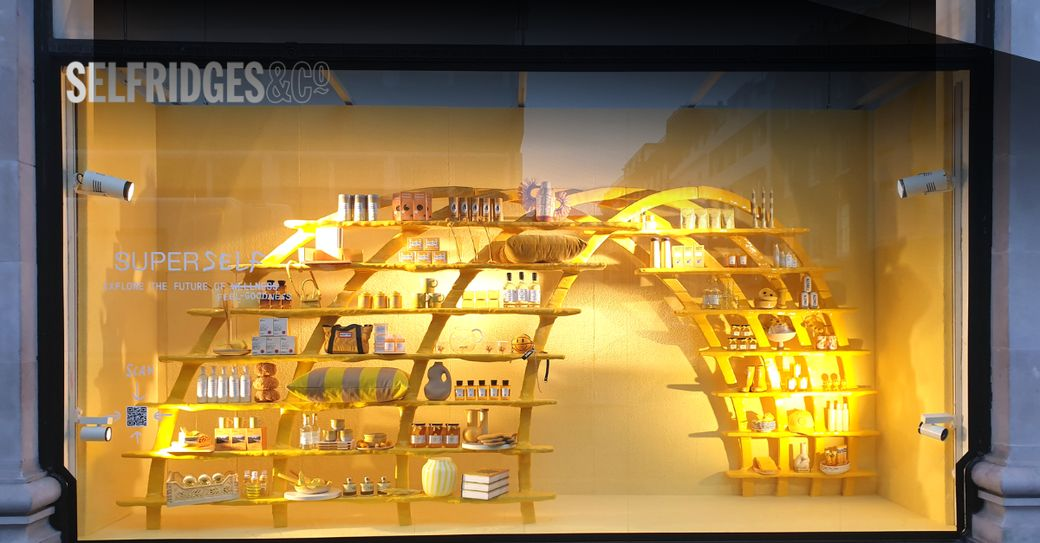
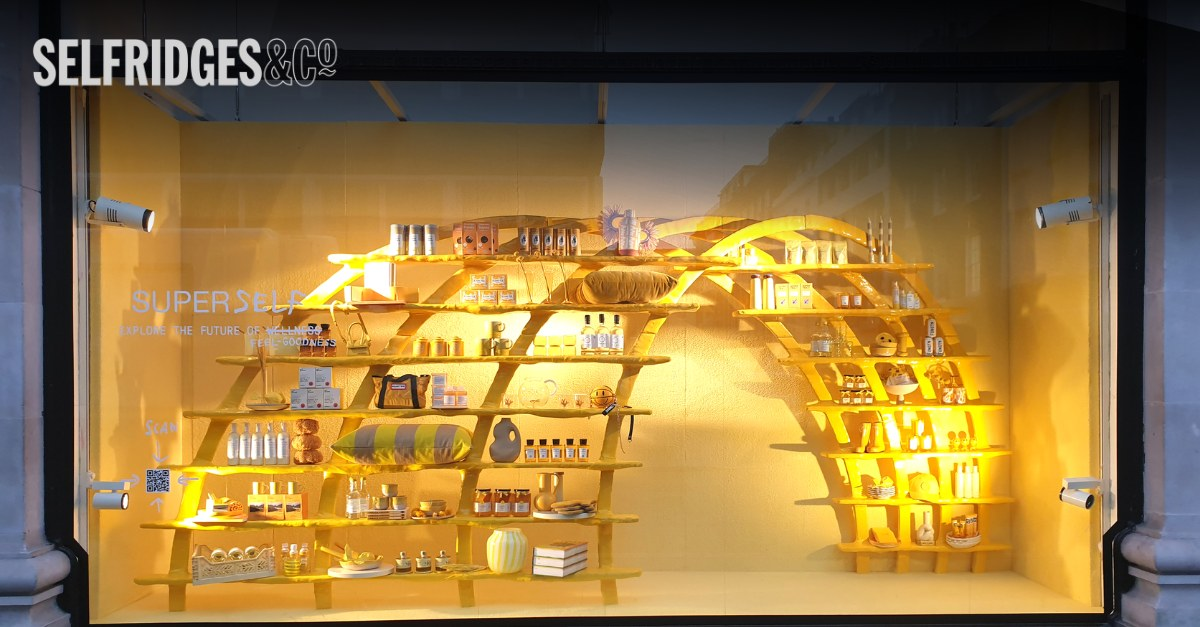
Add files via upload

Changed region(s): [[0.0, 0.0, 0.6154, 0.3536], [0.8923, 0.0, 1.0, 0.1768], [0.2462, 0.5304, 0.2769, 0.5599]]

diff --git a/index.html b/index.html
@@ -1460,7 +1460,7 @@ html body .ed2-who .ed2-v img:not(#z1):not(#z2):not(#z3):not(#z4):not(#z5):not(#
         <div class="tl-b">I created the formulations with UK manufacturers and launched the range in luxury retail. I secured every listing myself and refused to use a distributor, so every buyer dealt with me directly. At NET-A-PORTER I&nbsp;met with Global Beauty Director Newby Hands to discuss developing the range, eight years after she had featured my earlier wellness retreats in Harper&rsquo;s Bazaar.</div>
         <div class="tl-b">JetFuel was also bought by five-star hotels and luxury travel and concierge companies for their guests, in hotel suites, VIP guest experiences, airport lounges and private jets. It was included in the GQ Men of the Year gift bag, and featured in Maybourne Group Magazine, the publication of Claridge&rsquo;s, The Connaught and The Berkeley.</div>
         <div class="tl-b">Selling into luxury hospitality meant being in it. I&nbsp;spent those years inside London&rsquo;s five-star hotels, in conversation with general managers at Corinthia, Maybourne and Shangri-La, and appeared briefly in the BBC&rsquo;s A Hotel for the Super Rich &amp; Famous, filmed at Corinthia.</div>
-                  <div class="tl-img"><img loading="lazy" decoding="async" src="img/jetfuel-selfridges.jpg" alt="JetFuel at Selfridges" width="1040" height="543"></div>
+                  <div class="tl-img"><img loading="lazy" decoding="async" src="img/jetfuel-selfridges.jpg" alt="JetFuel at Selfridges" width="1200" height="627"></div>
           <div class="tl-img tl-pair"><img loading="lazy" decoding="async" src="img/jetfuel-nap.jpg" alt="JetFuel at NET-A-PORTER" width="640" height="561"><img loading="lazy" decoding="async" src="img/jetfuel-mrporter.jpg" alt="JetFuel at MR PORTER" width="640" height="561"></div>
       </div>
       <div class="tl-r"><span class="tl-y">2021&#8211;2026</span>
